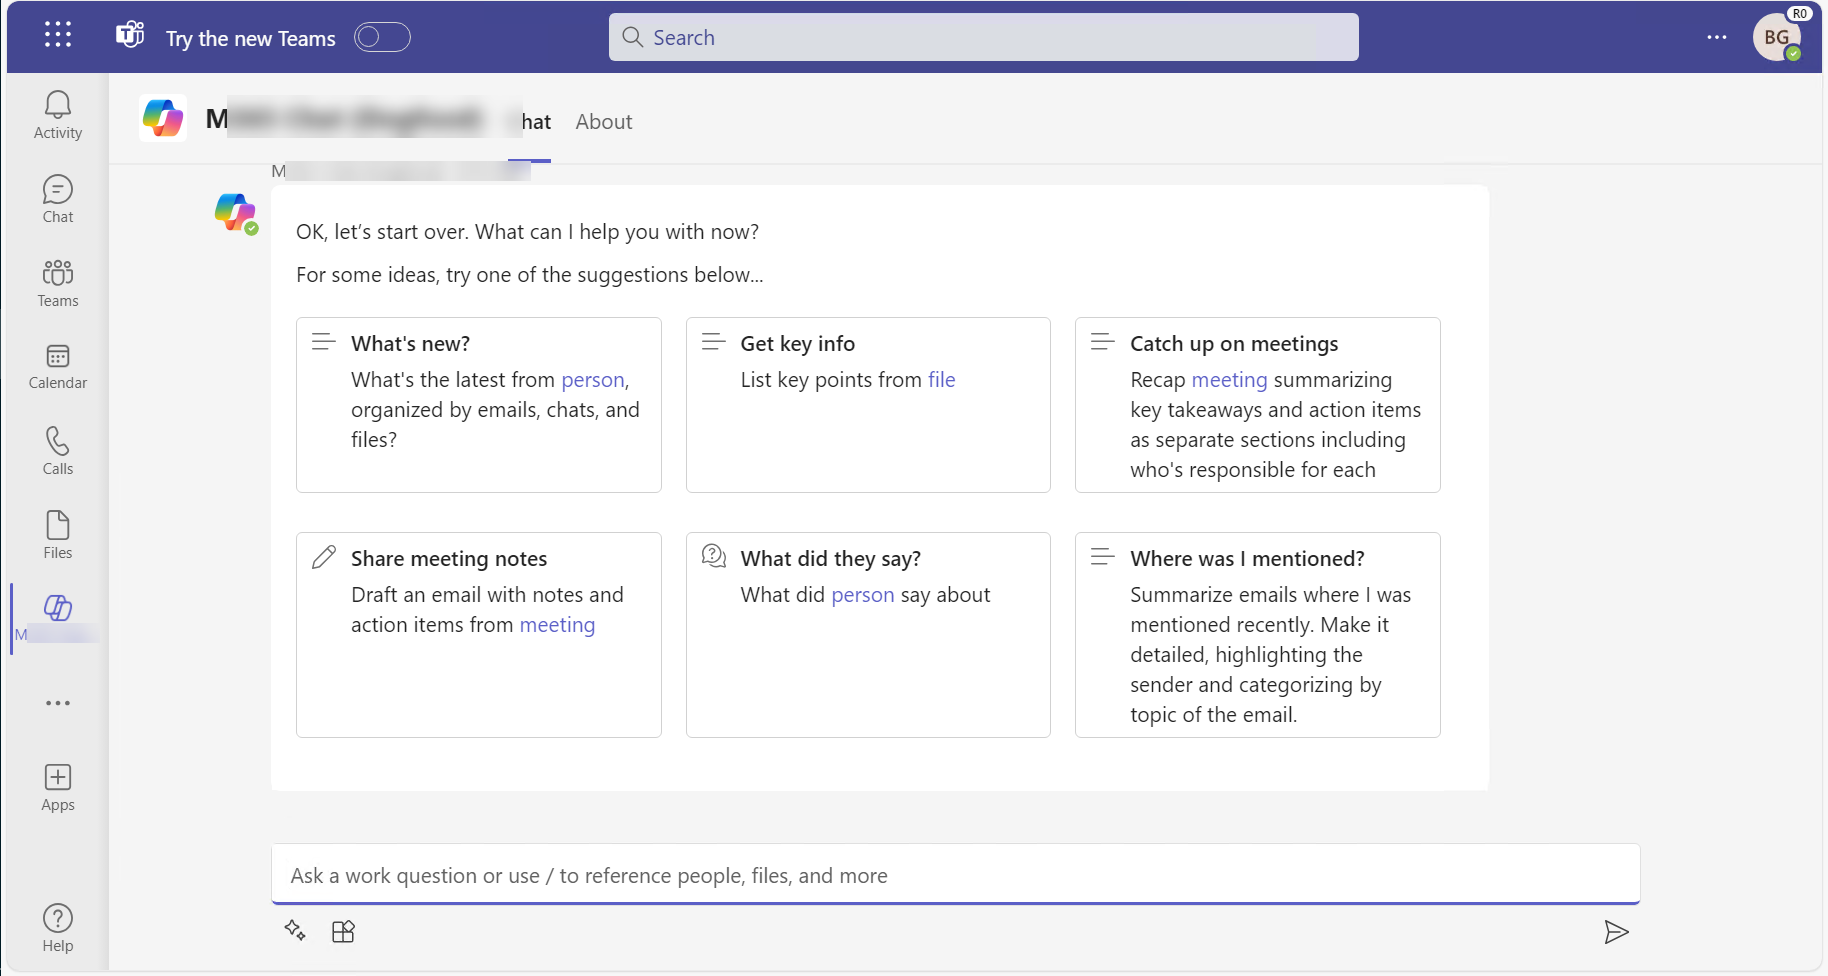
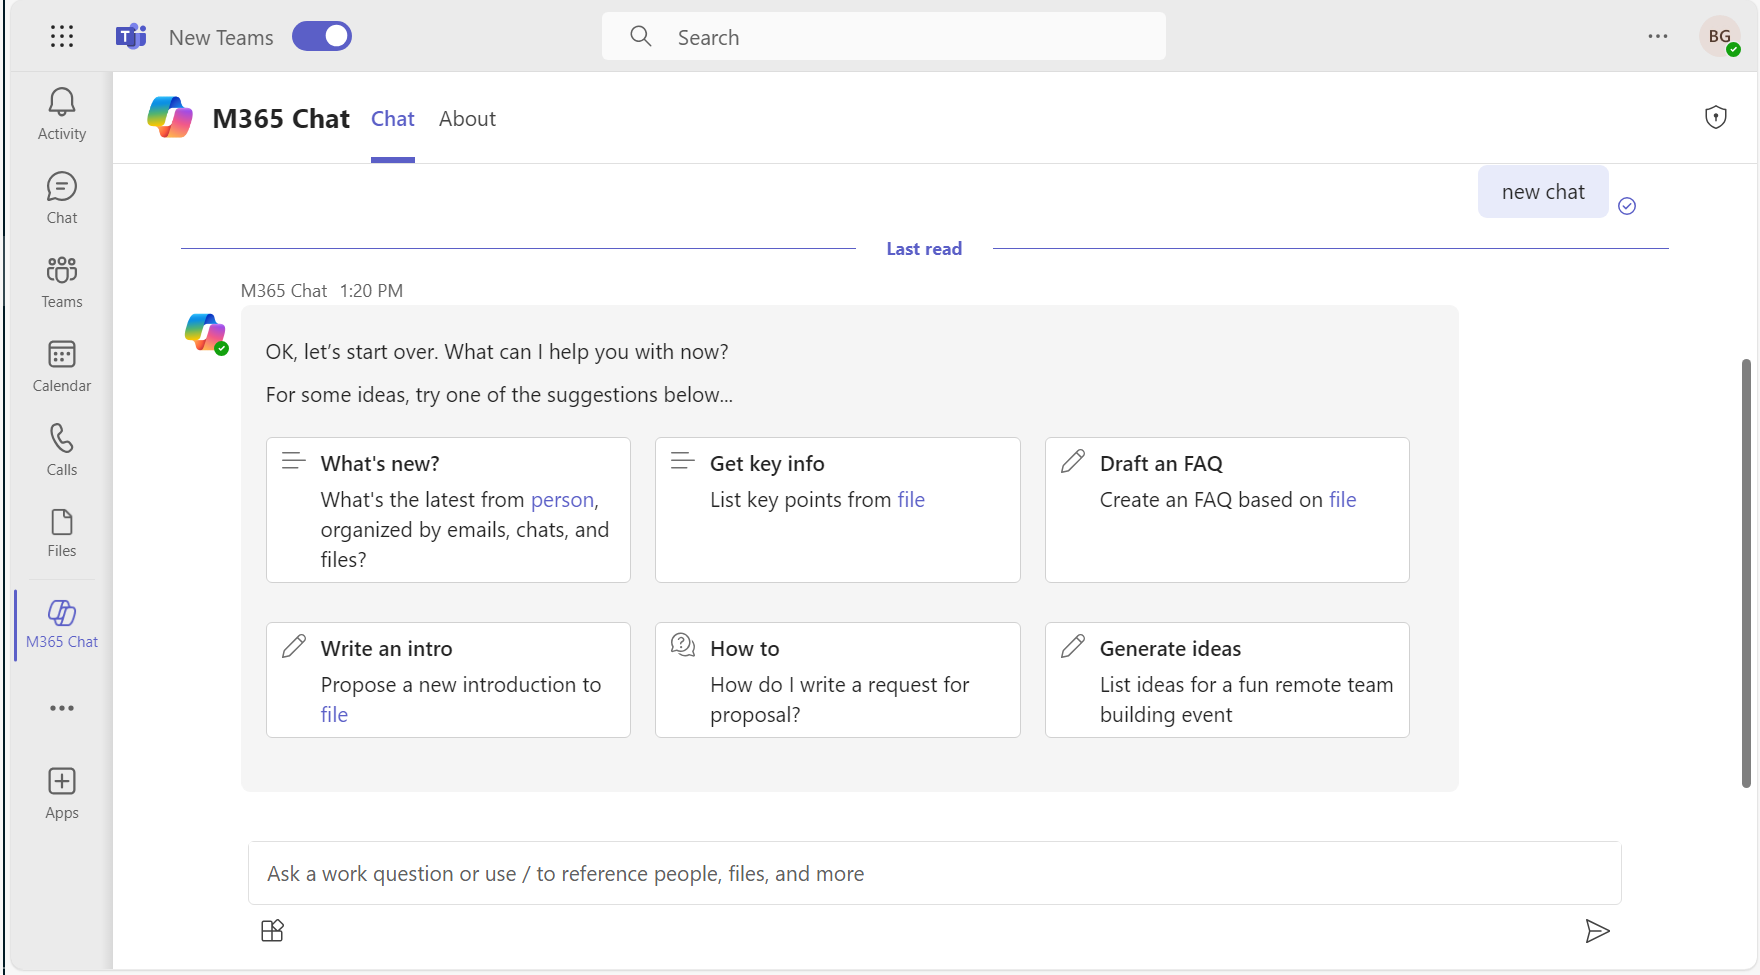
Updates from Miklos comments - THANK YOU

diff --git a/samples/msgext-northwind-inventory-ts/lab/Exercise 04 - Code tour.md b/samples/msgext-northwind-inventory-ts/lab/Exercise 04 - Code tour.md
@@ -36,7 +36,7 @@ Now have a look at the "name" and "description". Notice that the description is 
     },
     "description": {
         "short": "App allows you to find and update product inventory information",
-        "full": "Northwind Inventory is the ultimate tool for managing your product inventory. With its intuitive interface and powerful features, you'll be able to easily find your products by name, category, inventory status, and supplier city. You can also update inventory information with the app. \n\n **Why Choose Northwind Inventory:** \n\n Northwind Inventory is the perfect solution for businesses of all sizes that need to keep track of their inventory. Whether you're a small business owner or a large corporation, Northwind Inventory can help you stay on top of your inventory management needs. \n\n **Features and Benefits:** \n\n - Easy Product Search: Quickly search for products by name, category, inventory status, or supplier city \r - Real-Time Inventory Updates: Keep track of inventory levels in real-time and update them as needed \r  - User-Friendly Interface: Northwind Inventory's intuitive interface makes it easy to navigate and use \n\n **Availability:** \n\n To use Northwind Inventory, you'll need an active Microsoft 365 account . Ensure that your administrator enables the app for your Microsoft 365 account."
+        "full": "Northwind Inventory is the ultimate tool for managing your product inventory. With its intuitive interface and powerful features, you'll be able to easily find your products by name, category, inventory status, and supplier city. You can also update inventory information with the app. \n\n **Why Choose Northwind Inventory:** \n\n Northwind Inventory is the perfect solution for businesses of all sizes that need to keep track of their inventory. Whether you're a small business owner or a large corporation, Northwind Inventory can help you stay on top of your inventory management needs. \n\n **Features and Benefits:** \n\n - Easy Product Search through Microsoft Copilot. Simply start by saying, 'Find northwind dairy products that are low on stock' \r - Real-Time Inventory Updates: Keep track of inventory levels in real-time and update them as needed \r  - User-Friendly Interface: Northwind Inventory's intuitive interface makes it easy to navigate and use \n\n **Availability:** \n\n To use Northwind Inventory, you'll need an active Microsoft 365 account . Ensure that your administrator enables the app for your Microsoft 365 account."
     },
 ~~~
 

diff --git a/samples/msgext-northwind-inventory-ts/lab/Exercise 03 - Run in Copilot.md b/samples/msgext-northwind-inventory-ts/lab/Exercise 03 - Run in Copilot.md
@@ -10,11 +10,22 @@ TABLE OF CONTENTS
 
 ## Exercise 3 -
 
+
 ## Step 1 - Test in Microsoft Copilot for Microsoft 365 (single parameter)
 
-Navigate to the Microsoft Copilot for Microsoft 365 chat. Check the lower left of the chat user interface, below the compose box. You should see a plugin icon 1⃣ . Click this and enable the Northwind Inventory plugin 2⃣ .
+Begin by clicking the "Try the new Teams" switch to move to the new Teams client application.
+
+> IMPORTANT - Microsoft Copilot for Microsoft 365 only works in the "New" Teams. Please don't miss this step! 
+
+> If you restart your debugger after switching to "New" teams, you may get an error message after the debugger starts. This is a known problem; please just close the error dialog and continue testing.
+
+In the left navigation, click on "M365 Chat" to open Copilot.
+
+Check the lower left of the chat user interface, below the compose box. You should see a plugin icon 1⃣ . Click this and enable the Northwind Inventory plugin 2⃣ .
 
 ![Plugin panel](./images/03-02-Plugin-Panel.png)
+
+> NOTE: In the Ingite labs you may see a second "Northwind Inventory" app, with an icon that has a yellow background. We've hosted a copy of Northwind Inventory in Microsoft Azure and installed this app into the lab tenants. While it's there as a fallback, if you want to see the queries in your log window you need to use the copy with the blue background, which is the local running copy of the app.
 
 For best results, start a new chat by typing "New chat" before each prompt or set of related prompts.
 
@@ -26,7 +37,7 @@ Here are some prompts to try that use only a single parameter of the message ext
 
 * "Find discounted seafood in Northwind. Show a table with the products, supplier names, average discount rate, and revenue per period."
 
-* "Find ad campaigns for high revenue Northwind products"
+* "Find high revenue Northwind products. Did we run any ad campaigns for them?"
 
 See if this last one also locates any of the documents you uploaded to your OneDrive.
 

diff --git a/samples/msgext-northwind-inventory-ts/lab/Exercise 01 - Set up.md b/samples/msgext-northwind-inventory-ts/lab/Exercise 01 - Set up.md
@@ -45,11 +45,21 @@ The sample application includes some documents for Copilot to reference during t
 
 Open your browser and browse to Microsoft 365 ([https://www.office.com/](https://www.office.com/)). Log in using the Microsoft 365 account you will be using throughout the lab. You may be asked to set up multi-factor authentication.
 
+### For the Ignite labs
+
+If you're taking a lab at Ignite, then several sample documents have already been uploaded for you. Verify that you can find them by entering the word "agreement" in the search box. You should see several contracts that have been placed in SharePoint.
+
+![image](./images/01-02-CheckSampleFiles.png)
+
+### In your own tenant
+
+If you're not using one of the Ignite lab tenants, you'll need to upload the documents yourself to demonstrate how Copilot can use them in answering prompts.
+
 Using the "waffle" menu in the upper left corner of the page 1⃣ , navigate to the OneDrive application within Microsoft 365 2⃣ .
 
 ![image](./images/01-02-CopySampleFiles-01.png)
 
-Within OneDrive, navigate to "My Files" 1⃣  and then "Documents" 2⃣ to access your Documents folder.
+Within OneDrive, navigate to "My Files" 1⃣ . If there's a documents folder, click into that as well. If not, you can work directly within the "My Files" location.
 
 ![image](./images/01-02-CopySampleFiles-02.png)
 

diff --git a/samples/msgext-northwind-inventory-ts/lab/Exercise 02 - Run sample app.md b/samples/msgext-northwind-inventory-ts/lab/Exercise 02 - Run sample app.md
@@ -73,6 +73,8 @@ You can see the card, but you can't use it until you send it. Make any final edi
 
 ![Test in Teams](./images/02-03-TestME-Teams-take2-03.png)
 
+> NOTE: Card actions won't work until you send the card. If you get an error, please check and make sure you've sent the message and are working with the card after it has been sent.
+
 > NOTE: This is really only useful in conversations with other users; the chat in the Northwind Inventory app is just for testing.
 
 Notice that there is no chai on order 1⃣ . The authors of this lab are big chai drinkers and they may be stopping by so you'd better order more! Click the "take action" button 2⃣ to open a child card. Enter a quantity 3⃣ and click the "Restock" button 4⃣ . The card will refresh with (hopefully) a success message and an updated number of units on order.
